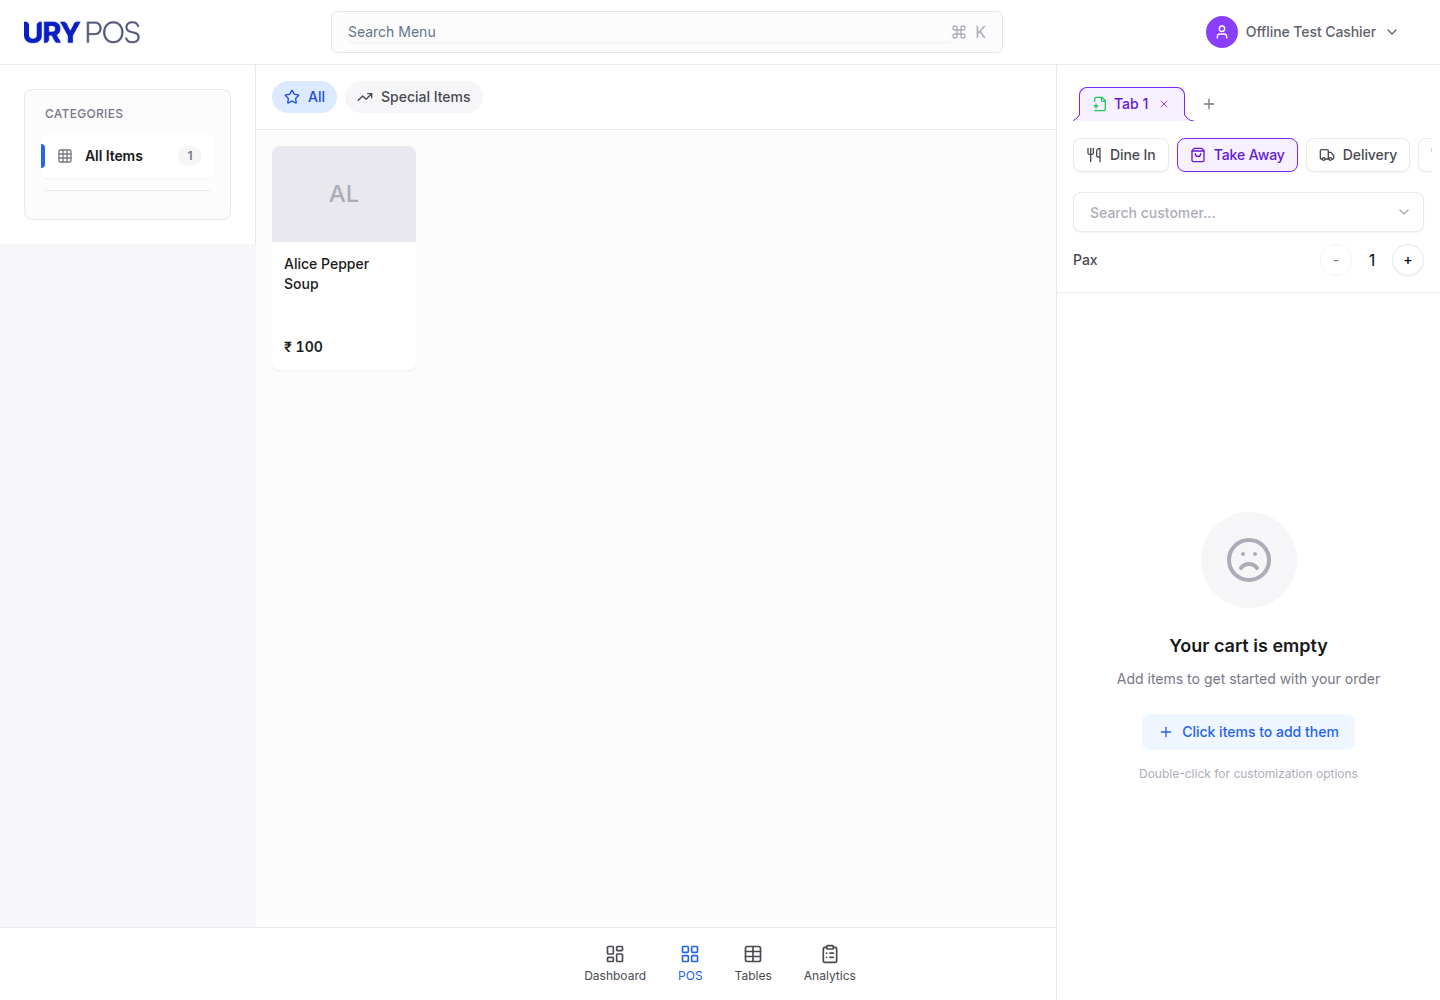
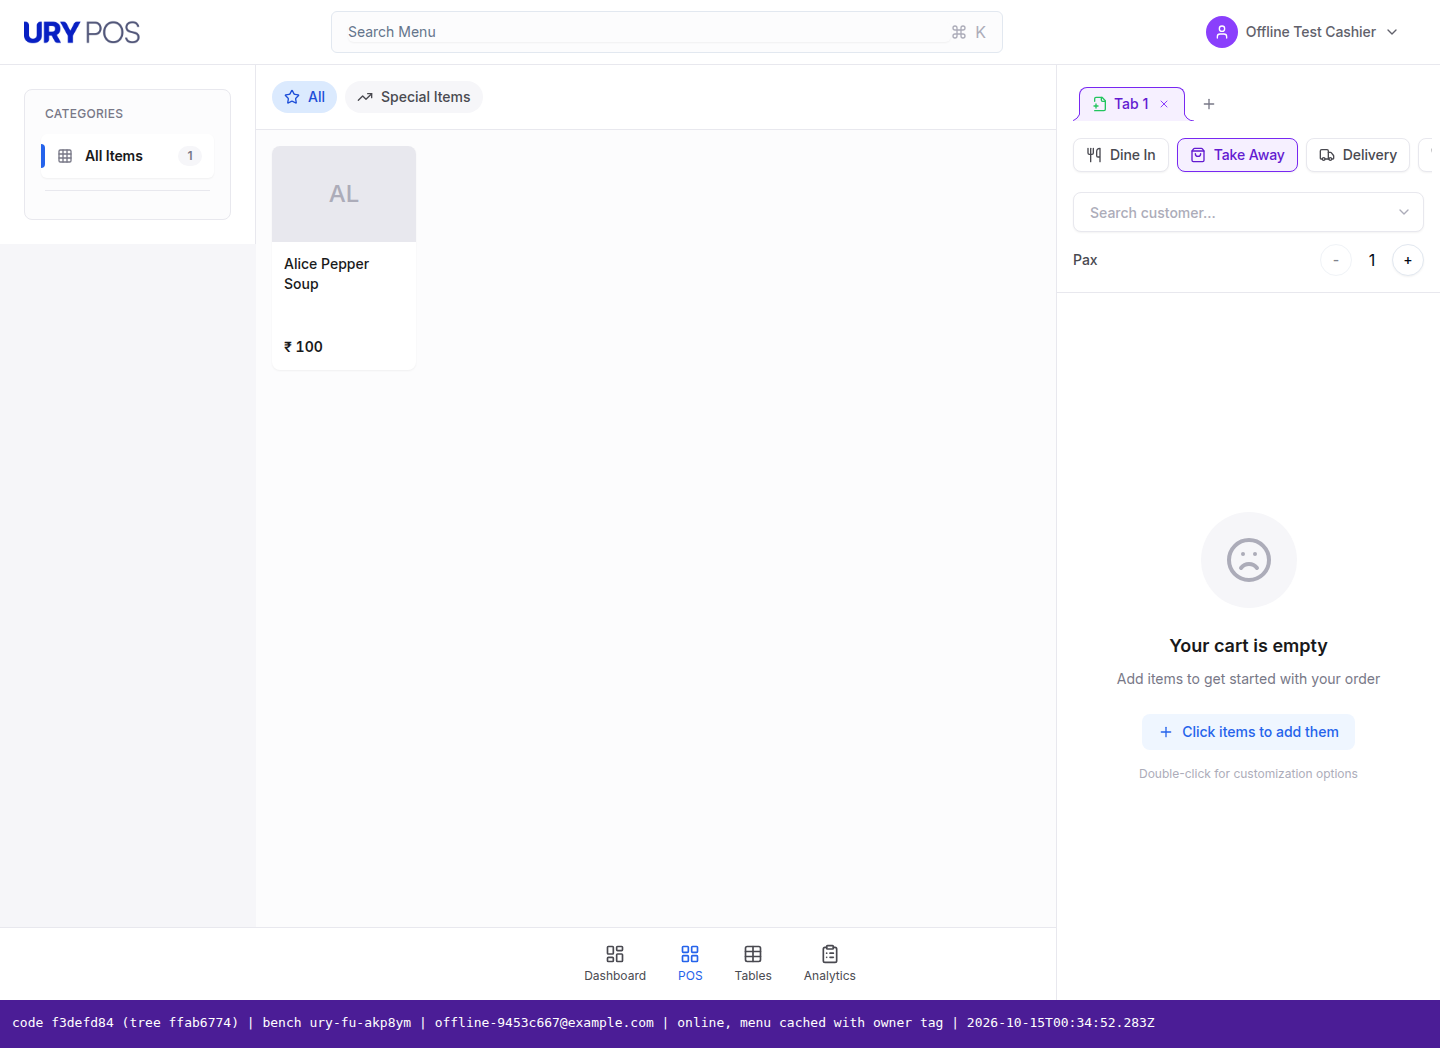
docs(O3b): recapture labelled Alice/Bob evidence on f3defd84
Fresh bench ury-fu-akp8ym from tree ffab6774 (code f3defd84). Each image carries a caption with build, bench, user and capture time, so it is distinct from the 318d4172 capture. Adds the user_id cookie, shared-till and Chrome/Edge 87+ operating notes.

diff --git a/docs/evidence/O3b/README.md b/docs/evidence/O3b/README.md
@@ -60,40 +60,68 @@ browser captures below.
 
 ## Disposable native browser proof
 
-Recaptured on the owner-tag worker (`f3defd84` build) in a fresh unique
-Compose project **`ury-fu-8wgwxq`**, site `ury.localhost`, published only as
-`127.0.0.1:18842 -> 8000/tcp`, subnet `10.254.19.0/24`. Image
-`frappe/erpnext:v16.50.0`. The served `/sw.js` contained the owner header.
-Synthetic cashier users only: `offline-5879c281@example.com` (dish Alice
-Pepper Soup, profile `Offline Till 5879c281`) and
-`offline-1e9d89c7@example.com` (dish Bob House Broth). No production site was
-used.
+All images are from benches built from code `f3defd84` (the owner-tag worker).
+Each bench was a unique Compose project with site `ury.localhost`, image
+`frappe/erpnext:v16.50.0`, published only on 127.0.0.1, with synthetic cashier
+users only. No production site was used.
 
-The same Chrome profile loaded Alice's till online. The controlling worker was
-`/sw.js`. `ury-pos-reads` held `getRestaurantMenu` for her till, including
-Alice Pepper Soup. That entry and the `/pos` shell were tagged with
-`X-Ury-Pos-Owner: offline-5879c281@example.com`.
+| Image | Build | Bench | User |
+| --- | --- | --- | --- |
+| `alice-cached-menu.png` | code `f3defd84`, tree `ffab6774` | `ury-fu-akp8ym` (127.0.0.1:18843) | `offline-9453c667@example.com` |
+| `bob-offline-no-alice-menu.png` | code `f3defd84`, tree `ffab6774` | `ury-fu-akp8ym` (127.0.0.1:18843) | `offline-d61d8f48@example.com` |
+| `alice-offline-own-menu.png` | code `f3defd84` | `ury-fu-8wgwxq` (127.0.0.1:18842) | `offline-5879c281@example.com` |
+| `same-outage-extra-round.png` | code `f3defd84` | `ury-fu-8wgwxq` (127.0.0.1:18842) | `offline-5879c281@example.com` |
 
-Alice online, her dish visible:
+### Labelled Alice/Bob recapture (`ury-fu-akp8ym`)
+
+The first two screenshots in the `ury-fu-8wgwxq` run were byte-identical to the
+`318d4172` capture. Headless Chrome renders the same screen to the same bytes,
+and neither screen shows anything build- or user-specific. They were therefore
+recaptured on a fresh bench, `ury-fu-akp8ym` (subnet `10.254.20.0/24`). It was
+built from tree `ffab6774`, whose code equals `f3defd84` (only docs changed
+since). The bench served `/sw.js` with sha256
[1 lines of base64/hex data omitted]
+local build. Each image has a caption strip added below the unchanged
+1440x1000 app screen. The strip shows the build, bench, signed-in user,
+scenario, and UTC capture time.
+
+| Image | sha256 before (`318d4172` capture) | sha256 now |
+| --- | --- | --- |
[2 lines of base64/hex data omitted]
+
+Alice (`offline-9453c667@example.com`, profile `Offline Till 9453c667`) loaded
+her till online in a fresh Chrome profile. The controlling worker was `/sw.js`.
+`ury-pos-reads` held `getRestaurantMenu` for her till, including Alice Pepper
+Soup. That entry and the `/pos` shell were tagged
+`X-Ury-Pos-Owner: offline-9453c667@example.com`.
+
+Alice online, her dish cached under her owner tag (code `f3defd84`):
 
 ![Alice cached menu](alice-cached-menu.png?raw=true)
 
-With the network off, Alice reloaded and still got her own menu from her own
-cache. The owner rule does not break offline reload for the signed-in owner.
+The session cookie was then switched to Bob (`offline-d61d8f48@example.com`)
+with no client cache purge, and the browser was taken offline before reload.
+Bob's screen does not show Alice Pepper Soup. The offline session record is
+Bob. `ury-pos-reads` no longer contains Alice's dish. Every remaining read and
+the shell are tagged for Bob: his payment, POS profile, and profile document
+reads. The till itself reports that the POS session could not be opened,
+which is the offline session-status failure, not Alice's menu.
 
-![Alice offline sees her own menu](alice-offline-own-menu.png?raw=true)
-
-The session cookie was then switched to Bob with no client cache purge, and the
-browser was taken offline before reload. Bob's screen does not show Alice
-Pepper Soup. The offline session record is Bob. `ury-pos-reads` no longer
-contains Alice's dish. Every remaining read and the shell are tagged for Bob:
-his payment, POS profile, and profile document reads. The till itself reports
-that the POS session could not be opened, which is the offline session-status
-failure, not Alice's menu.
-
-Bob offline, Alice's dish absent:
+Bob offline, Alice's dish absent (code `f3defd84`):
 
 ![Bob offline does not see Alice menu](bob-offline-no-alice-menu.png?raw=true)
+
+### Owner offline reload and outage id (`ury-fu-8wgwxq`)
+
+Bench `ury-fu-8wgwxq` (127.0.0.1:18842, subnet `10.254.19.0/24`) was built from
+code `f3defd84`. Alice (`offline-5879c281@example.com`) reloaded with the network
+off and still got her own menu from her own cache. The owner rule does not
+break offline reload for the signed-in owner.
+
+Alice offline, her own menu (code `f3defd84`):
+
+![Alice offline sees her own menu](alice-offline-own-menu.png?raw=true)
 
 For the outage id, Alice captured one offline order (total 100, one pending).
 Network was restored and the in-flight `sync_order` was failed, standing in for
@@ -104,28 +132,36 @@ outage `475dd9c6-20cd-4913-9a5d-9e8dd1b1af21`, two rounds, total 200. Two
 Total 200, and "Order captured offline." It does not show a different-outage
 refusal. Chrome did not grant persistent storage; the banner says so.
 
-Same outage after the lost sync:
+Same outage after the lost sync (code `f3defd84`):
 
 ![Same outage extra round](same-outage-extra-round.png?raw=true)
 
-Trimmed capture, without cache bodies or credentials:
+Trimmed capture for both benches, without cache bodies or credentials:
 [browser-proof.json](browser-proof.json).
+
+## Operating notes (non-blocking)
+
+- The owner tag relies on Frappe's `user_id` cookie, which is not HttpOnly.
+  It prevents one user's cached POS data being shown to the next signed-in
+  user by accident. It is not a defence against script running on the device:
+  such script can read the cookie and Cache Storage directly.
+- Shared tills must sign out with POS Logout, which purges the URY caches and
+  unregisters the worker. They must run a locked-down kiosk browser profile.
+- Tills must run Chrome or Edge 87 or later. The worker reads the cookie
+  through the Cookie Store API in service workers. Without that API it fails
+  closed: it serves nothing from cache, so offline reload does not work.
 
 ## Cleanup
 
 After each capture, `docker compose -p <project> -f <lab>/compose.yaml down --volumes --remove-orphans`
 removed that project's containers, `db`/`sites`/`logs` volumes, and network,
-for the first capture `ury-fu-q4n8kd` and the recapture `ury-fu-8wgwxq`.
+for `ury-fu-q4n8kd`, `ury-fu-8wgwxq` and `ury-fu-akp8ym`.
 Exact-project container, volume, and network queries were empty. The synthetic
 databases are discarded with those volumes. Each host lab directory, including
 its Chrome profiles, was moved to the local trash as
-`ury-fu-q4n8kd-20261015` and `ury-fu-8wgwxq-20261015`. Neither is a running
-bench. No shared Docker resources were pruned.
-
-Browser note: the worker reads the `user_id` cookie through the Cookie Store
-API (Chrome 87+, the tills' browser). Where that API is missing, the worker
-serves nothing from cache, so offline reload is unavailable but isolation
-holds.
+`ury-fu-q4n8kd-20261015`, `ury-fu-8wgwxq-20261015` and
+`ury-fu-akp8ym-20261015`. None is a running bench. No shared Docker resources
+were pruned.
 
 CANNOT-VERIFY: production deployment, a physical printer, and a real Cloudflare
 or mobile-money provider. Hosted CI is reported on the draft PR, not inferred
